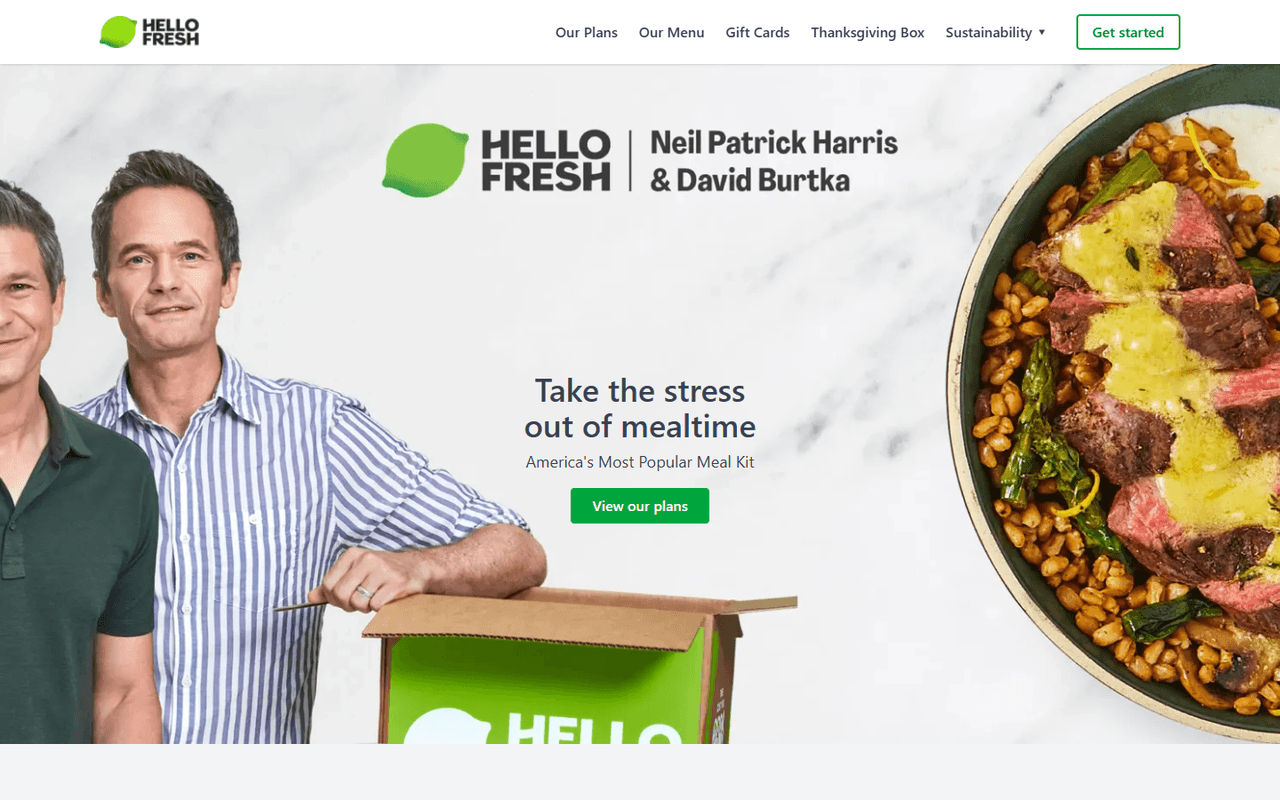
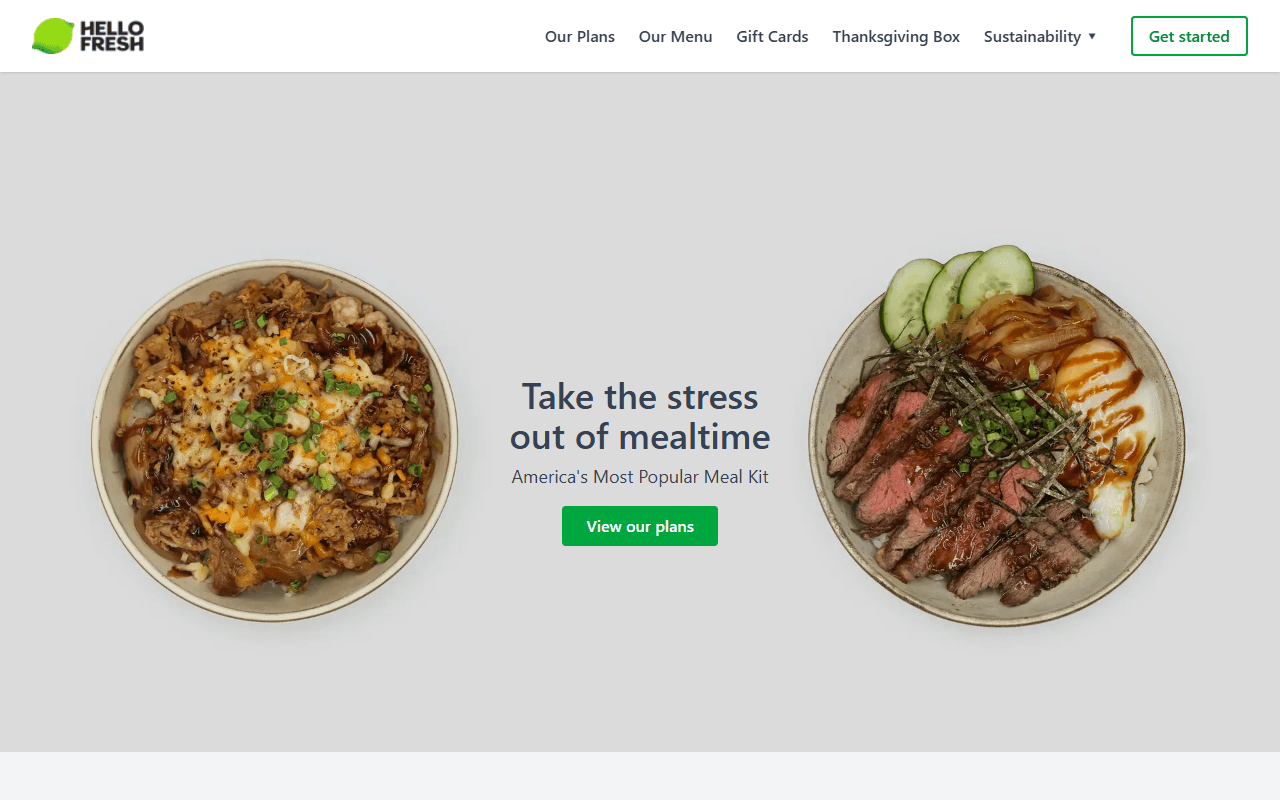
Replace real people's photos with credited Unsplash stock photos
- Hero: food-only banner (no celebrities), shown whole at every width
- Community section: four hands-only cooking photos, new captions and alt text
- Our Menu: "Seared Steak & Herby Grain Bowl" gets its own steak bowl photo
- Footer: decorative social icons replaced by a real link to github.com/codelady-ship
- README: photo credits; screenshots retaken, old before-shots removed

diff --git a/src/komponents/layout/PagesPart/index5.jsx b/src/komponents/layout/PagesPart/index5.jsx
@@ -2,21 +2,21 @@ import React from 'react';
 import { asset } from '../../../data/site';
 
 const photos = [
-  { img: 'images/page5-1.webp', alt: 'A child helping to cook dinner at the kitchen table', title: 'Little chef', text: 'My little chef helped me make dinner tonight and tried out his new kitchen utensils!' },
-  { img: 'images/page5-2.webp', alt: 'A family smiling at the dinner table', title: 'Family dinner', text: 'Dad and the kids made mom dinner tonight. We had our doubts, but wow, it was tasty!' },
-  { img: 'images/page5-3.webp', alt: 'A boy in a chef hat preparing vegetables', title: 'Helping out', text: 'I’m helping out 🧑🏽🍳 #masterchef' },
-  { img: 'images/page5-4.webp', alt: 'A dog watching a meal being cooked in the kitchen', title: 'Cooking class', text: 'We had our weekly cooking class at home and worked as a team. 🙌🏻' },
+  { img: 'images/page5-1.webp', alt: 'Hands chopping herbs on a white cutting board next to mushrooms', title: 'Prep time', text: 'Herbs and mushrooms chopped and ready before the pan heats up.' },
+  { img: 'images/page5-2.webp', alt: 'Tomatoes and onions cooking in a black frying pan', title: 'In the pan', text: 'Tomatoes and onions softening for a quick weeknight sauce.' },
+  { img: 'images/page5-3.webp', alt: 'Hands mixing grains and spices in small bowls on a wooden table', title: 'Cooking together', text: 'Measuring grains and spices, one small bowl at a time.' },
+  { img: 'images/page5-4.webp', alt: 'Hands placing cherry tomatoes on a wooden board', title: 'Fresh produce', text: 'Vine tomatoes for a simple side salad.' },
 ];
 
 const PagesP5 = () => {
   return (
     <section className="py-10 text-center">
       <h2 className="text-3xl text-gray-600">Cook it. Love it. Tag it #HelloFreshPics</h2>
-      <p className="pt-2 text-xl text-gray-700">Photos shared by home cooks</p>
+      <p className="pt-2 text-xl text-gray-700">A few moments from cooking at home</p>
       <div className="mx-auto grid max-w-6xl grid-cols-1 gap-8 px-5 pt-8 sm:grid-cols-2 lg:grid-cols-4">
         {photos.map((p) => (
           <figure key={p.title} className="flex flex-col items-center gap-3">
-            <img src={asset(p.img)} alt={p.alt} width="375" height="469" loading="lazy" className="aspect-square w-full max-w-xs object-cover" />
+            <img src={asset(p.img)} alt={p.alt} width="600" height="750" loading="lazy" className="aspect-square w-full max-w-xs object-cover" />
             <figcaption>
               <strong className="block">{p.title}</strong>
               {p.text}

diff --git a/src/komponents/layout/Footer/index.jsx b/src/komponents/layout/Footer/index.jsx
@@ -1,6 +1,6 @@
 import React from 'react';
 import { Link } from 'react-router-dom';
-import { asset, topics } from '../../../data/site';
+import { topics } from '../../../data/site';
 
 const columns = [
   {
@@ -46,11 +46,18 @@ const Footer = () => (
         >
           View on GitHub
         </a>
-        <div className="mt-3 flex gap-2" aria-hidden="true">
-          <img src={asset('images/fb.png')} alt="" className="h-7 w-7" />
-          <img src={asset('images/tviter.png')} alt="" className="h-7 w-7 rounded-2xl bg-blue-500 p-1.5" />
-          <img src={asset('images/insta.png')} alt="" className="h-7 w-7 rounded-2xl bg-red-500 p-1.5" />
-        </div>
+        <a
+          href="https://github.com/codelady-ship"
+          className="mt-3 flex w-fit items-center gap-2 font-semibold text-gray-700 hover:text-green-700 hover:underline"
+          target="_blank"
+          rel="noreferrer"
+          aria-label="codelady-ship on GitHub (opens in a new tab)"
+        >
+          <svg xmlns="http://www.w3.org/2000/svg" width="24" height="24" viewBox="0 0 16 16" fill="currentColor" aria-hidden="true">
+            <path d="M8 0C3.58 0 0 3.58 0 8c0 3.54 2.29 6.53 5.47 7.59.4.07.55-.17.55-.38 0-.19-.01-.82-.01-1.49-2.01.37-2.53-.49-2.69-.94-.09-.23-.48-.94-.82-1.13-.28-.15-.68-.52-.01-.53.63-.01 1.08.58 1.23.82.72 1.21 1.87.87 2.33.66.07-.52.28-.87.51-1.07-1.78-.2-3.64-.89-3.64-3.95 0-.87.31-1.59.82-2.15-.08-.2-.36-1.02.08-2.12 0 0 .67-.21 2.2.82.64-.18 1.32-.27 2-.27.68 0 1.36.09 2 .27 1.53-1.04 2.2-.82 2.2-.82.44 1.1.16 1.92.08 2.12.51.56.82 1.27.82 2.15 0 3.07-1.87 3.75-3.65 3.95.29.25.54.73.54 1.48 0 1.07-.01 1.93-.01 2.2 0 .21.15.46.55.38A8.013 8.013 0 0016 8c0-4.42-3.58-8-8-8z" />
+          </svg>
+          codelady-ship
+        </a>
       </div>
     </div>
     <p className="border-t border-gray-300 px-5 py-4 text-center text-sm text-gray-600">

diff --git a/src/data/site.js b/src/data/site.js
@@ -15,7 +15,7 @@ export const recipes = [
   { id: 2, title: 'Glazed Steak with Mash & Green Beans', plan: 'meat-veggies', time: 35, tags: ['High protein'], image: 'images/page4-2.jpg', alt: 'Glazed steak slices next to mashed potatoes and green beans' },
   { id: 3, title: 'Crunchy Carrot Lettuce Wraps', plan: 'family', time: 25, tags: ['Kid-friendly', 'Quick'], image: 'images/page4-3.jpg', alt: 'Lettuce leaves filled with shredded carrot and herbs' },
   { id: 4, title: 'Classic Burger with Potato Wedges', plan: 'family', time: 40, tags: ['Kid-friendly'], image: 'images/page4-4.jpg', alt: 'Burger with lettuce and tomato beside roasted potato wedges' },
-  { id: 5, title: 'Seared Steak & Herby Grain Bowl', plan: 'fit', time: 30, tags: ['High protein', 'Balanced'], image: 'images/page1.webp', alt: 'Sliced steak with a herb sauce on a bowl of grains', position: '85% 40%' },
+  { id: 5, title: 'Seared Steak & Herby Grain Bowl', plan: 'fit', time: 30, tags: ['High protein', 'Balanced'], image: 'images/steak-bowl.webp', alt: 'Sliced seared steak over rice with spring onions and crispy shallots in a black bowl' },
   { id: 6, title: 'Loaded Tacos & Cheesy Bake', plan: 'meat-veggies', time: 45, tags: ['Sharing'], image: 'images/page6.webp', alt: 'Tacos, rice and a cheesy oven bake on a table', position: '30% 50%' },
 ];
 

diff --git a/src/komponents/layout/PagesPart/index1.jsx b/src/komponents/layout/PagesPart/index1.jsx
@@ -7,7 +7,7 @@ const PagesP1 = () => {
   return (
     <section
       style={{ backgroundImage: `url(${asset('images/page1.webp')})` }}
-      className="flex min-h-[60vh] flex-col items-center justify-center bg-cover bg-center px-5 pt-24 text-center lg:min-h-[85vh]"
+      className="flex min-h-[60vh] flex-col items-center justify-start bg-[#dbdbdc] bg-contain bg-bottom bg-no-repeat px-5 pt-24 text-center lg:min-h-[85vh] lg:justify-center lg:bg-center"
     >
       <div className="rounded-lg bg-white/80 px-6 py-5 lg:bg-transparent">
         <h1 className="mb-2 text-3xl font-semibold text-gray-700 lg:text-4xl">

diff --git a/README.md b/README.md
@@ -4,7 +4,7 @@
 
 A multi-page clone of the HelloFresh meal-kit website, built with React, React Router, Vite and Tailwind CSS to practise components, state and routing.
 
-> **Practice clone.** This is a learning project. It is not affiliated with, endorsed by or connected to HelloFresh. Plans, prices and gift cards are examples only and nothing can be ordered.
+> **Practice clone.** This is a learning project. It is not affiliated with, endorsed by or connected to HelloFresh. Plans, prices and gift cards are examples only and nothing can be ordered. The HelloFresh name, logo, icons and recipe photos belong to HelloFresh. The hero, community and "Seared Steak" photos are free stock photos from Unsplash (see [Photo credits](#photo-credits)); the clone shows no photos of real customers or celebrities.
 >
 > 🇦🇿 Təlim layihəsi: HelloFresh saytının React, Vite və Tailwind CSS ilə hazırlanmış çoxsəhifəli klonu.
 
@@ -20,6 +20,20 @@ A multi-page clone of the HelloFresh meal-kit website, built with React, React R
 - **Sustainability:** three topic pages (packaging & recycling, seasonal ingredients, less food waste)
 - Responsive header with a hamburger menu and a Sustainability dropdown (closes on navigation, outside click and Escape)
 - Page titles per route, one `h1` per page, alt text on all images, WebP images, favicon, Open Graph tags, `robots.txt`, `sitemap.xml`
+
+## Photo credits
+
+Free photos from [Unsplash](https://unsplash.com), used under the [Unsplash License](https://unsplash.com/license). They were cropped and converted to WebP.
+
+| File | Photo | Photographer |
+|---|---|---|
+| `public/images/page1.webp` (hero, left bowl) | [Bowl of food on a white table](https://unsplash.com/photos/a-bowl-of-food-on-a-white-table-KwGoCJGwbCs) | [Xavier Chng](https://unsplash.com/@cohesionsingapore) |
+| `public/images/page1.webp` (hero, right bowl) | [Plate of food with meat, vegetables and sauce](https://unsplash.com/photos/a-plate-of-food-with-meat-vegetables-and-sauce-o3Og5MYceTI) | [Xavier Chng](https://unsplash.com/@cohesionsingapore) |
+| `public/images/steak-bowl.webp` | [Black bowl filled with meat and rice](https://unsplash.com/photos/a-black-bowl-filled-with-meat-and-rice-JJWd8lxX5Kk) | Markus Winkler |
+| `public/images/page5-1.webp` | [Person slicing vegetable](https://unsplash.com/photos/person-slicing-vegetable-uB7q7aipU2o) | Jonathan Borba |
+| `public/images/page5-2.webp` | [Person holding black frying pan with cooked food](https://unsplash.com/photos/person-holding-black-frying-pan-with-cooked-food-UjIkvPvfsFY) | Carlos Fernández |
+| `public/images/page5-3.webp` | [People mixing items on bowl](https://unsplash.com/photos/people-mixing-items-on-bowl-XiWtCLWK5K8) | Annie Spratt |
+| `public/images/page5-4.webp` | [Hands arranging fresh cherry tomatoes on a wooden board](https://unsplash.com/photos/hands-arranging-fresh-cherry-tomatoes-on-a-wooden-board-Yy8FETHf8lo) | [Ahmet Koç](https://unsplash.com/@ahmetkoc) |
 
 ## Tech stack
 
@@ -68,4 +82,4 @@ public/images/              images (photos in WebP)
 - How client-side routing interacts with static hosting, and why `HashRouter` avoids 404s on GitHub Pages
 - Configuring Vite's `base` for a sub-path deployment
 - Accessibility basics: `aria-expanded`, labels for form fields, alt text and one `h1` per page
-- Compressing images (the hero image went from 4.9 MB PNG to 140 KB WebP)
+- Compressing images (every photo is a WebP under 200 KB)
